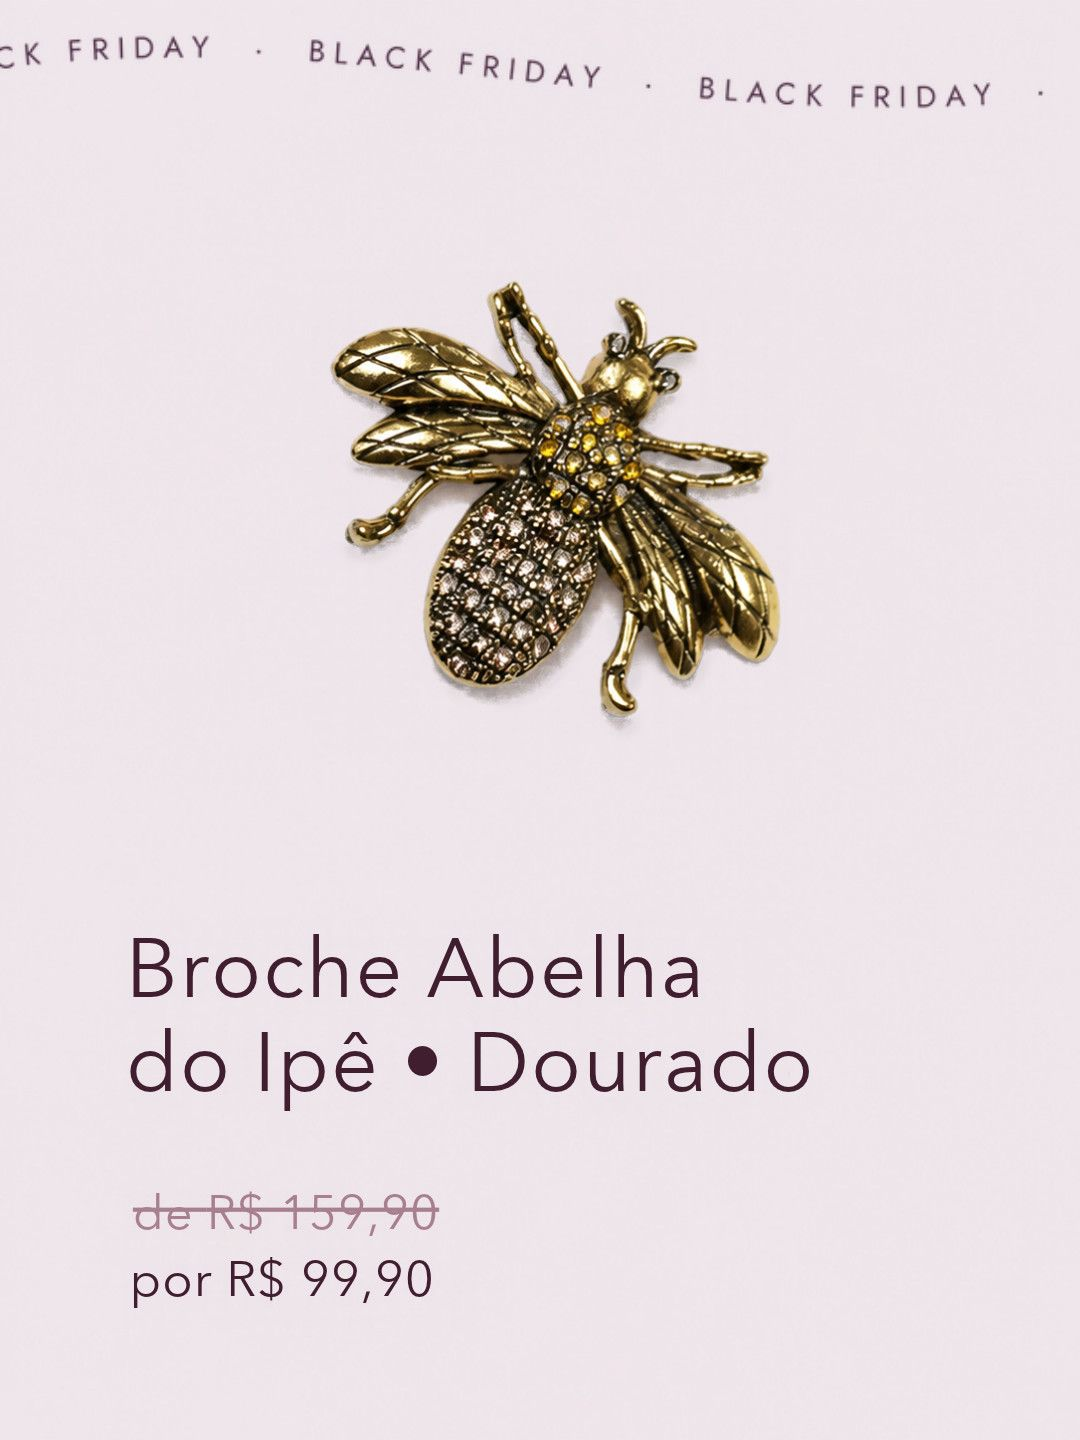
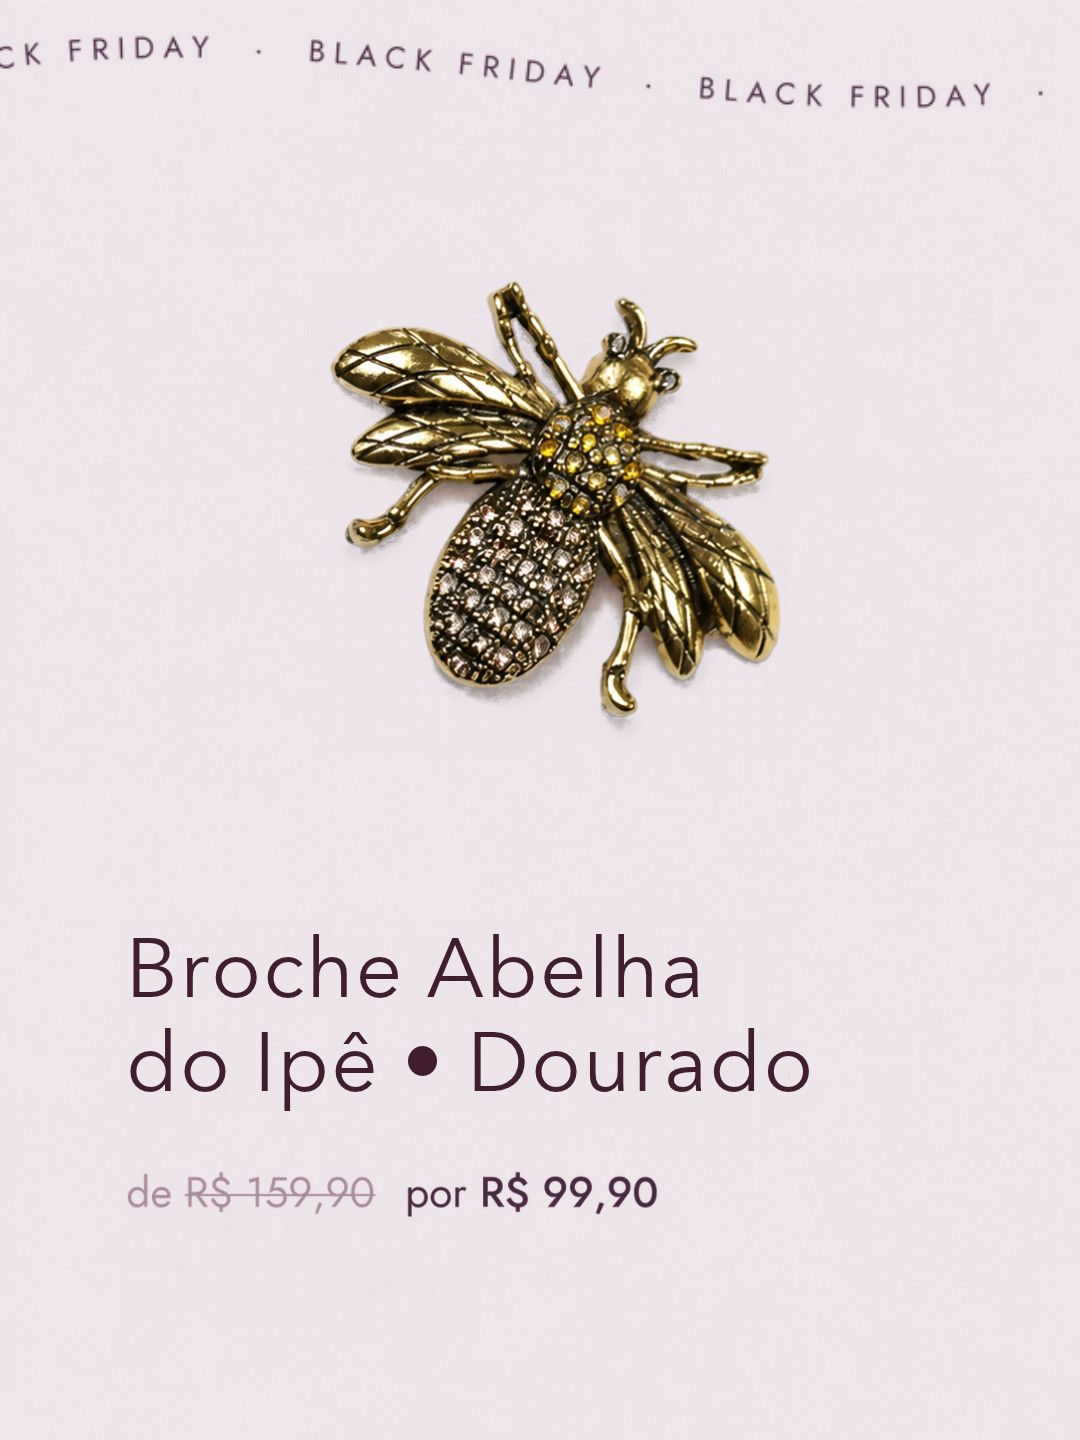
Aprovação Ipê: preço padronizado nas peças
Claude-Session: https://claude.ai/code/session_015euoKZ9BazZFzvmzWMYP3z

Changed region(s): [[0.1222, 0.8125, 0.6111, 0.9062]]

diff --git a/aprovacao/ipeacessorios/index.html b/aprovacao/ipeacessorios/index.html
@@ -118,7 +118,7 @@ const pad = (x) => String(x).padStart(2, "0");
 const lista = document.getElementById("lista");
 PECAS.forEach((p, i) => {
   const id = i + 1;
-  const imgs = Array.from({ length: p.n }, (_, k) => `<img src="img/${pad(id)}-${k + 1}.jpg?v=3" alt="${p.t}, imagem ${k + 1}" loading="${i < 2 ? "eager" : "lazy"}">`).join("");
+  const imgs = Array.from({ length: p.n }, (_, k) => `<img src="img/${pad(id)}-${k + 1}.jpg?v=4" alt="${p.t}, imagem ${k + 1}" loading="${i < 2 ? "eager" : "lazy"}">`).join("");
   const el = document.createElement("article");
   el.className = "peca"; el.id = "p" + id;
   el.innerHTML = `
